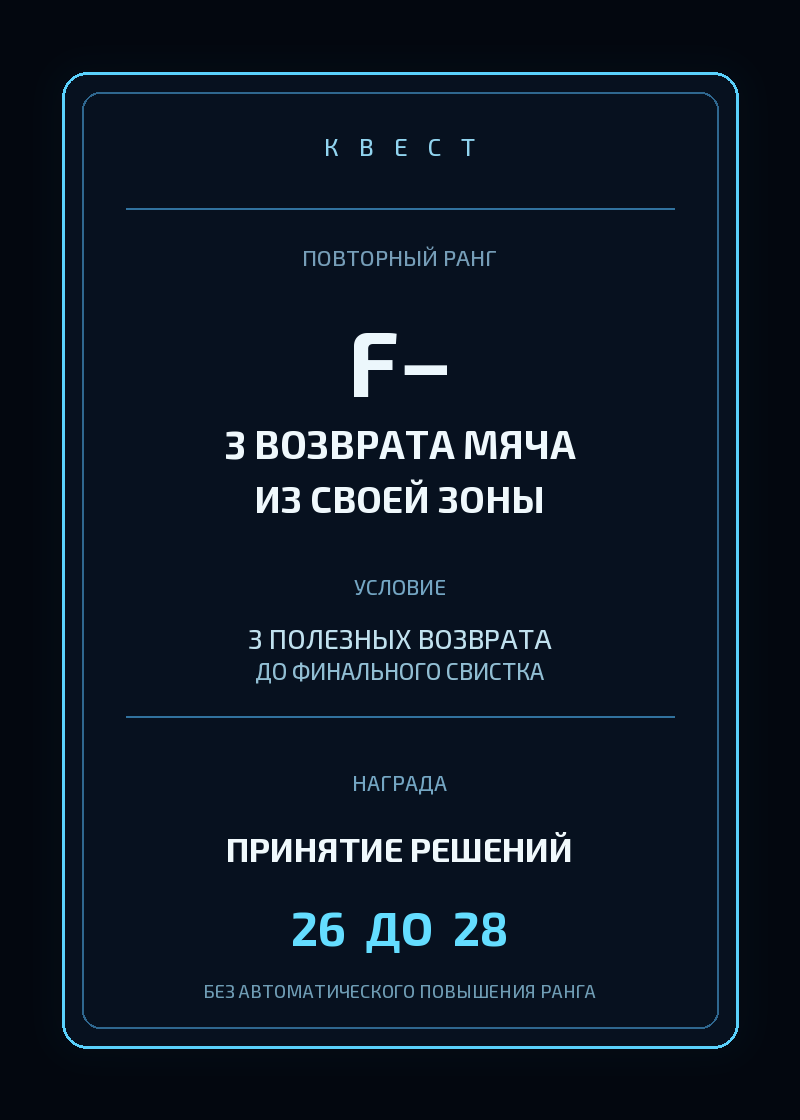
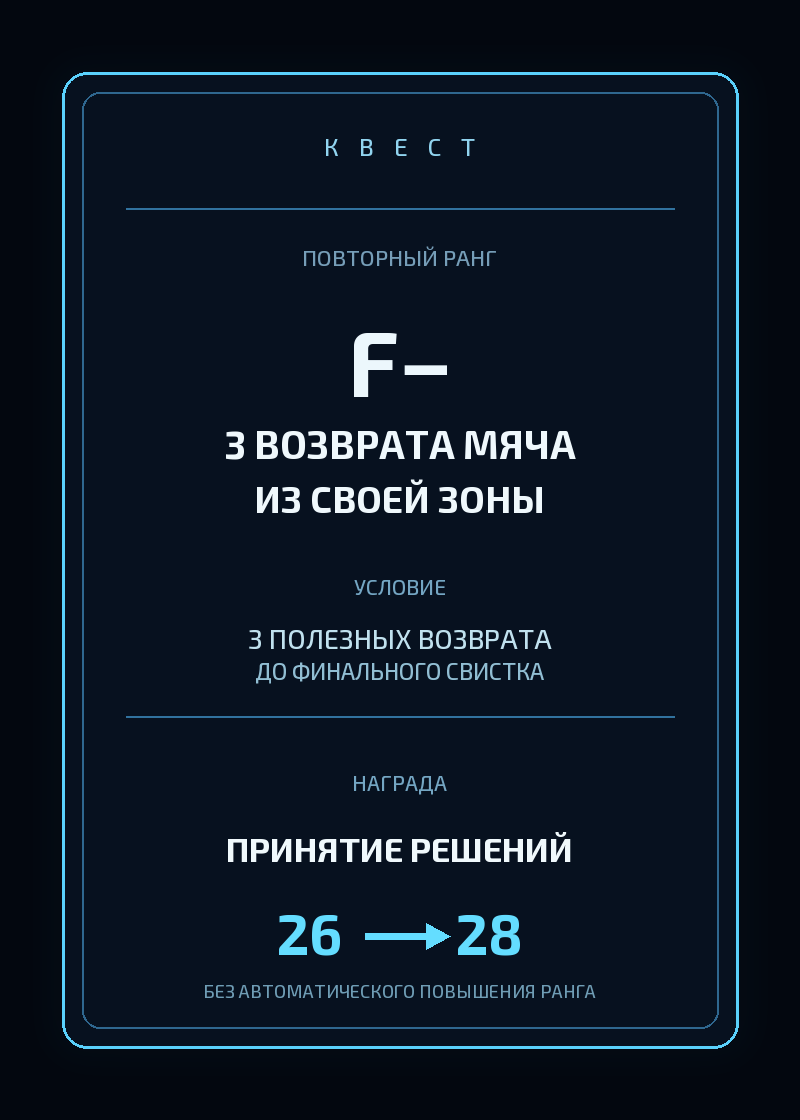
Complete chapter 4 first batch

Changed region(s): [[0.3438, 0.8125, 0.6562, 0.875]]

diff --git a/tests/test_ch4_v2.py b/tests/test_ch4_v2.py
@@ -58,10 +58,11 @@ FIRST_BATCH_SOURCE_HASHES = {
[4 lines of base64/hex data omitted]
 }
 
 QUEST_PANEL = Path("ch4/v2_11_quest.png")
[2 lines of base64/hex data omitted]
 
 
 class ChapterFourV2PlanningTests(unittest.TestCase):
@@ -107,20 +108,19 @@ class ChapterFourV2PlanningTests(unittest.TestCase):
         self.assertNotEqual(VERESK_KIT["shirt"], "#000000")
         self.assertNotEqual(VERESK_KIT["shorts"], "#000000")
 
-    def test_first_review_batch_has_nine_ready_frames_and_waits_for_substitution_art(self):
-        first_nine = CH4_V2_SCORE[:9]
-        self.assertEqual([row[1] for row in first_nine], [f"{i:02d}" for i in range(1, 10)])
-        self.assertEqual(len({row[0] for row in first_nine}), 9)
-        self.assertTrue(all("/v2_" in row[0] for row in first_nine))
+    def test_first_review_batch_contains_exactly_ten_ready_frames(self):
+        first_ten = CH4_V2_SCORE[:10]
+        self.assertEqual([row[1] for row in first_ten], [f"{i:02d}" for i in range(1, 11)])
+        self.assertEqual(len({row[0] for row in first_ten}), 10)
+        self.assertTrue(all("/v2_" in row[0] for row in first_ten))
         self.assertEqual(CH4_V2_SCORE[9][0], "ch4/v2_10_substitution_65_src.jpg")
-        self.assertFalse((ROOT / CH4_V2_SCORE[9][0]).exists())
-        self.assertFalse((ROOT / "CH4_V2_BATCH_01_10_SCROLL.jpg").exists())
-        partial = ROOT / "CH4_V2_BATCH_01_09_SCROLL.jpg"
-        self.assertTrue(partial.is_file())
-        with Image.open(partial) as image:
-            self.assertEqual(image.size, (800, 14873))
+        self.assertTrue((ROOT / CH4_V2_SCORE[9][0]).is_file())
+        full = ROOT / "CH4_V2_BATCH_01_10_SCROLL.jpg"
+        self.assertTrue(full.is_file())
+        with Image.open(full) as image:
+            self.assertEqual(image.size, (800, 16597))
             self.assertEqual(image.mode, "RGB")
-        for index in range(1, 10):
+        for index in range(1, 11):
             path = ROOT / f"ch4/v2_lettered_{index:02d}.jpg"
             self.assertTrue(path.is_file(), path)
             with Image.open(path) as image:
@@ -148,7 +148,7 @@ class ChapterFourV2PlanningTests(unittest.TestCase):
         for forbidden in ("68′", "F+", "ПОЗИЦИЯ 70 → 71"):
             self.assertNotIn(forbidden, lettering)
 
-    def test_batch_builder_rejects_more_than_ten_or_missing_tenth_frame(self):
+    def test_batch_builder_rejects_more_than_ten_frames(self):
         over = subprocess.run(
             [sys.executable, "build_ch4_v2_batch.py", "--start", "1", "--end", "11"],
             cwd=ROOT,
@@ -156,14 +156,7 @@ class ChapterFourV2PlanningTests(unittest.TestCase):
             capture_output=True,
         )
         self.assertNotEqual(over.returncode, 0)
-        missing = subprocess.run(
-            [sys.executable, "build_ch4_v2_batch.py", "--start", "1", "--end", "10"],
-            cwd=ROOT,
-            text=True,
-            capture_output=True,
-        )
-        self.assertNotEqual(missing.returncode, 0)
-        self.assertIn("v2_10_substitution_65_src.jpg", missing.stderr)
+        self.assertIn("01–10", over.stderr)
 
     def test_script_contains_exact_contract_and_production_guards(self):
         script = (ROOT / "docs/CH4_SCRIPT_CANDIDATE.md").read_text(encoding="utf-8")

diff --git a/build_ch4_v2_numbers.py b/build_ch4_v2_numbers.py
@@ -45,10 +45,10 @@ def apply_ch4_numbers(num: str, image_rgba: Image.Image) -> Image.Image:
     # Только ракурсы, где поверхность формы действительно видна. Никаких
     # ложных номеров на груди/рукавах или дальних пиксельных игроках.
     if num == "04":
-        _number(image, (int(w * 0.392), int(h * 0.415)), VETROV_NUMBER, size=max(28, int(w * 0.048)), angle=-2)
-        _number(image, (int(w * 0.732), int(h * 0.386)), SHATSKY_NUMBER, size=max(24, int(w * 0.041)), angle=4)
+        _number(image, (int(w * 0.310), int(h * 0.530)), VETROV_NUMBER, size=max(28, int(w * 0.048)), angle=-8)
+        _number(image, (int(w * 0.795), int(h * 0.405)), SHATSKY_NUMBER, size=max(24, int(w * 0.041)), angle=4)
     elif num == "10":
-        _number(image, (int(w * 0.385), int(h * 0.425)), VETROV_NUMBER, size=max(36, int(w * 0.075)), angle=-3)
-        _number(image, (int(w * 0.365), int(h * 0.685)), VETROV_NUMBER, size=max(20, int(w * 0.036)), angle=-5)
+        _number(image, (int(w * 0.490), int(h * 0.525)), VETROV_NUMBER, size=max(36, int(w * 0.075)), angle=-1)
+        _number(image, (int(w * 0.455), int(h * 0.660)), VETROV_NUMBER, size=max(20, int(w * 0.036)), angle=-3)
 
     return image

diff --git a/build_ch4_v2_system.py b/build_ch4_v2_system.py
@@ -52,7 +52,10 @@ def build() -> Path:
 
     _text(draw, (400, 770), "НАГРАДА", "m", 21, (116, 166, 195), "ma")
     _text(draw, (400, 828), "ПРИНЯТИЕ РЕШЕНИЙ", "b", 34, (240, 249, 252), "ma")
-    _text(draw, (400, 899), f"{DECISION_BEFORE}  ДО  {DECISION_AFTER}", "b", 47, (100, 221, 255), "ma")
+    _text(draw, (310, 899), str(DECISION_BEFORE), "b", 56, (100, 221, 255), "ma")
+    _text(draw, (490, 899), str(DECISION_AFTER), "b", 56, (100, 221, 255), "ma")
+    draw.line((365, 936, 426, 936), fill=(100, 221, 255), width=7)
+    draw.polygon(((426, 923), (450, 936), (426, 949)), fill=(100, 221, 255))
     _text(draw, (400, 980), "БЕЗ АВТОМАТИЧЕСКОГО ПОВЫШЕНИЯ РАНГА", "m", 18, (111, 157, 181), "ma")
 
     OUT.parent.mkdir(parents=True, exist_ok=True)

diff --git a/docs/QC_CH1-5_2026-11-13.md b/docs/QC_CH1-5_2026-11-13.md
@@ -363,14 +363,19 @@
 - **глава 4 · кадры 01–09 · было → стало · почему:** было — существовали только два continuity-мастера и текстовая партитура → стало — созданы автобус у единого городского стадиона, чистая заявка `11 + 7`, предматчевая раздевалка, скамейка, показанный гол «Вереска» на `38′`, коридор перерыва, вызов Ветрова на `62′` и установка тренера; все новые файлы имеют `v2_*`, а игровые сцены сохраняют вересково-фиолетовую форму, чёрно-красный комплект «Торпедо-2», пасмурный свет и ту же бетонно-кирпичную арену → почему: начать производственный пакет только после закрепления continuity и не ремонтировать legacy.
 - **глава 4 · кадр 02 · было → стало · почему:** было — legacy-заявка заранее печатала будущую замену `ВЕТРОВ 68′` → стало — программная заявка показывает только стартовый состав и запас: ровно 18 уникальных фамилий/номеров, Шатский `16` в основе, Ветров `19` в запасе, №8 свободен → почему: предматчевый документ не должен знать будущую минуту замены.
 - **глава 4 · кадры 06, 08–09 · было → стало · почему:** было — гол, вызов и установка существовали лишь как описание → стало — exact-lettering фиксирует `38′ / ГОООЛ!`, `62′ / ВЕТРОВ! РАЗМИНАЙСЯ!` и естественное `Подбери за Шатским. И первый пас — проще. / Понял.` без пересказа изображения → почему: причинно связать поражение, решение тренера и функцию выхода героя.
-- **глава 4 · кадр 11 · было → стало · почему:** было — legacy показывал невозможный `F+ / ПОЗИЦИЯ 70 → 71` → стало — изолированный сборщик создал панель повторного `F−`, условия `3 ВОЗВРАТА МЯЧА ИЗ СВОЕЙ ЗОНЫ` и награды `ПРИНЯТИЕ РЕШЕНИЙ 26 ДО 28`, без XP, уровня и прогресс-бара → почему: вернуться к незакрытой линии Главы 1 и не перескакивать ранг.
-- **глава 4 · граница пакета · было → стало · почему:** было — первый пакет ещё не существовал → стало — временная `CH4_V2_BATCH_01_09_SCROLL.jpg` (`800×14873`) и девять lettered-файлов собраны для внутреннего QC; создание substitution-art `10` остановлено системным лимитом генерации, поэтому `CH4_V2_BATCH_01_10_SCROLL.jpg` намеренно отсутствует и защищён тестом → почему: честно не объявлять девять кадров полным пакетом и продолжить с точной точки в следующем ходе.
+- **глава 4 · кадр 11 · было → стало · почему:** было — legacy показывал невозможный `F+ / ПОЗИЦИЯ 70 → 71` → стало — изолированный сборщик создал панель повторного `F−`, условия `3 ВОЗВРАТА МЯЧА ИЗ СВОЕЙ ЗОНЫ` и награды `ПРИНЯТИЕ РЕШЕНИЙ 26 → 28`, без XP, уровня и прогресс-бара → почему: вернуться к незакрытой линии Главы 1 и не перескакивать ранг.
+- **глава 4 · граница пакета · было → стало · почему:** было — первый пакет ещё не существовал → стало — временная `CH4_V2_BATCH_01_09_SCROLL.jpg` (`800×14873`) и девять lettered-файлов собраны для внутреннего QC; создание substitution-art `10` остановлено системным лимитом генерации, поэтому `CH4_V2_BATCH_01_10_SCROLL.jpg` намеренно отсутствовал и защищался тестом → почему: честно не объявлять девять кадров полным пакетом и продолжить с точной точки в следующем ходе.
+
+### 59. Глава 4 · кадр замены `10`, полный пакет `01–10` и визуальный QC
+- **глава 4 · кадр 10 · было → стало · почему:** было — момент выхода на поле существовал только в сценарии, а частичная лента заканчивалась установкой тренера → стало — `v2_10_substitution_65_src.jpg` показывает Ветрова, пересекающего бровку навстречу уходящему партнёру; пустое табло четвёртого судьи не выдумывает данные, код наносит `65′` и №19 точно на спину и видимую часть шорт → почему: доказать замену изображением, сохранить официальный номер и замкнуть арифметику `90 − 65 = 25 минут`.
+- **глава 4 · номера в кадрах 04 и 10 · было → стало · почему:** было — первая автоматическая раскладка ставила №19 у волос Ветрова, а №16 на краю рукава Шатского → стало — координаты выровнены по фактическим плоскостям спины; в кадре выхода №19 расположен на центре спины и шортах → почему: номер должен принадлежать форме, а не свободному фону или телу.
+- **глава 4 · пакет 01–10 · было → стало · почему:** было — существовала только внутренняя лента `01–09` → стало — собраны десять полноразмерных `v2_lettered_01.jpg`–`v2_lettered_10.jpg` и `CH4_V2_BATCH_01_10_SCROLL.jpg` (`800×16597`): `9` внутрикадровых + `7` межкадровых блоков → почему: завершить первую половину строго в пределах установленного максимума десять кадров.
+- **глава 4 · визуальный и автоматический QC · было → стало · почему:** было — кадр замены и полный ритм ещё нельзя было проверить → стало — просмотрены монтажный лист и пять полноразмерных полос; подтверждены единые форма/стадион/погода, заявка `11 + 7`, номера `16/19`, `38′ / 62′ / 65′`, один мяч в сетке и финальная фраза `Двадцать пять минут.`; тесты требуют все десять SHA-256 исходников и точный размер пакетной ленты → почему: второй пакет нельзя начинать на неподтверждённой первой половине.
 
 ---
 
 # ОСТАЛОСЬ (не закрыто)
 
-1. **Завершить первый пакет Главы 4:** в следующем генерационном окне создать `ch4/v2_10_substitution_65_src.jpg` с выходом Ветрова №19 на `65′`; затем пересобрать ровно `01–10`. Legacy не перезаписывать.
-2. **Проверка пакета `01–10`:** уже подтверждены заявка `11 + 7`, Шатский `16`, Ветров `19`, показанный гол `38′`, единый стадион/погода, вызов `62′` и установка; после добавления `10` проверить точную арифметику `65′ / 25 минут`, номера и полный ритм.
-3. **Второй пакет `11–20`:** не начинать до QC первой половины; затем отдельно доказать три возврата, счёт `1:0`, результат `26 → 28`, человеческую оценку и официальный протокол `2 / 6.6`.
-4. **Псевдописьмо Главы 5:** в кадре 02 (`e09_lines`) мелкое псевдописьмо остаётся до очереди Главы 5.
+1. **Точка просмотра пакета `01–10`:** первая половина полностью готова и показана отдельно; её статус остаётся кандидатом до буквального `утверждаю`.
+2. **Второй пакет `11–20`:** после продолжения отдельно доказать три возврата, счёт `1:0`, результат `26 → 28`, человеческую оценку и официальный протокол `2 / 6.6`.
+3. **Псевдописьмо Главы 5:** в кадре 02 (`e09_lines`) мелкое псевдописьмо остаётся до очереди Главы 5.

diff --git a/docs/WORKFLOW_LOG.md b/docs/WORKFLOW_LOG.md
@@ -19,16 +19,16 @@ _Проект: «ПОКА ПОВРЕМЕНИМ», том 1 (главы 1–5) ·
 ## Текущий счётчик
 
 - **Последняя контрольная точка:** `CHECKPOINT #12` — `2026-11-16` (утверждение и canonical build Главы 3; аудит Главы 4; принятие v2-направления; continuity-мастера формы «Вереска» и городского стадиона).
-- **Шагов с последнего чекпоинта:** **`1 / 5`**
+- **Шагов с последнего чекпоинта:** **`2 / 5`**
 - **Следующая обязательная фиксация документации в Git:** на шаге **`5 / 5`** (`CHECKPOINT #13`) либо сразу после следующего авторского `утверждаю`.
 - **Закрытая глава:** **Глава 3 «ИЗ УВАЖЕНИЯ К ТАЙМИНГУ» утверждена** и собрана канонически как `800×30964`.
-- **Активная глава:** **Глава 4 «ПРОТОКОЛ 1:0»**. Готовы versioned-ресурсы и леттеринг `01–09`, а также подготовленная панель квеста `11`; частичная QC-лента `CH4_V2_BATCH_01_09_SCROLL.jpg` (`800×14873`) собрана только для внутренней сверки. Генерационный лимит остановил создание `10` в текущем ходе, поэтому полный пакет `01–10` ещё не объявлен готовым; legacy не менялся.
+- **Активная глава:** **Глава 4 «ПРОТОКОЛ 1:0»**. Первый versioned-пакет `01–10` завершён: выход Ветрова №19 на `65′` добавлен, `CH4_V2_BATCH_01_10_SCROLL.jpg` (`800×16597`) собран и визуально проверен по монтажному листу и пяти полосам. Панель квеста `11` готова отдельно; второй пакет ещё не начат, legacy не менялся.
 
 ### Текущая пятёрка шагов (к `CHECKPOINT #13`)
 
-- [x] Шаг 1/5 — собраны и визуально проверены versioned-ресурсы `01–09`, заявка `11 + 7`, леттеринг, панель квеста `11` и временная QC-лента; `10` ожидает следующего генерационного окна.
-- [ ] Шаг 2/5 — создать substitution-art `10`, собрать и проверить полный пакет `01–10`.
-- [ ] Шаг 3/5 — _свободно_.
+- [x] Шаг 1/5 — собраны и визуально проверены versioned-ресурсы `01–09`, заявка `11 + 7`, леттеринг, панель квеста `11` и временная QC-лента.
+- [x] Шаг 2/5 — создан substitution-art `10`, номера №19 программно выровнены по спине/шортам, полный пакет `01–10` собран и проверен.
+- [ ] Шаг 3/5 — начать versioned-ресурсы второй половины только после точки просмотра первого пакета.
 - [ ] Шаг 4/5 — _свободно_.
 - [ ] Шаг 5/5 — _CHECKPOINT #13_.
 
@@ -79,7 +79,7 @@ _Проект: «ПОКА ПОВРЕМЕНИМ», том 1 (главы 1–5) ·
 - `build_ch3_v2_batch.py` сохраняет максимум `10` фреймов за выпуск. Готовы `CH3_V2_BATCH_01_10_SCROLL.jpg` (`800×15591`) и `CH3_V2_BATCH_11_20_SCROLL.jpg` (`800×15953`) с двадцатью отдельными `v2_lettered_*`-файлами.
 - По прямому запросу автора сначала собраны маркированные review-файлы; после утверждения отдельный `--approved` создал `CH3_V2_SCROLL_SL_full.jpg` (`800×30964`) и `CH3_V2_SL_SHEET.jpg` (`1908×2953`). Обе сборки имеют 20 кадров, `15 + 10` текстовых блоков и `0` пересечений.
 - Для следующих соперников до генерации обязательны уникальные паспорта формы и стадиона, эталон формы и establishing shot; чёрный комплект и прежняя архитектура арены не повторяются автоматически.
-- `tests/test_ch3_v2.py` защищает механику, 20 кадров, два пакета по 10, размеры review- и approved-выходов, заявку, номера, точный текст, воспроизводимые врезки и SHA-256 legacy Главы 3; после добавления плановых тестов Главы 4 полный regression содержит 35 тестов.
+- `tests/test_ch3_v2.py` защищает механику, 20 кадров, два пакета по 10, размеры review- и approved-выходов, заявку, номера, точный текст, воспроизводимые врезки и SHA-256 legacy Главы 3; после производственных тестов Главы 4 полный regression содержит 39 тестов.
 
 ---
 
@@ -91,7 +91,7 @@ _Проект: «ПОКА ПОВРЕМЕНИМ», том 1 (главы 1–5) ·
 - Сценарий расширен до 20 кадров, чтобы отдельно показать единственный гол, три действия, человеческую оценку, окно Системы и официальный протокол без словесных дублей.
 - «Вереск» получил вересково-фиолетовую/кремовую форму; стадион — городской бетонно-кирпичный овал с беговой дорожкой и холодным пасмурным светом. Мастера `ch4/v2_veresk_kit_reference.jpg` и `ch4/v2_03_veresk_stadium_establishing_src.jpg` проверены визуально и хешами.
 - `ch4_roster.py` сохраняет 18 уникальных номеров: Шатский `16` возвращается в основу, Ветров `19` начинает в запасе, №8 свободен.
-- `ch4_v2_contract.py` и девять тестов фиксируют механику, счёт, время, заявку, masters, первые девять исходников, точный леттеринг и запрет преждевременной полной ленты. Следующая операция — создать `v2_10_substitution_65_src.jpg`, затем пересобрать `01–10`; legacy не перезаписывать.
+- `ch4_v2_contract.py` и девять тестов фиксируют механику, счёт, время, заявку, masters, все десять исходников, точный леттеринг и размеры пакетной ленты. Первый пакет готов; следующий производственный шаг — `11–20` только после точки просмотра `01–10`. Legacy не перезаписывать.
 
 ---
 

diff --git a/README.md b/README.md
@@ -15,7 +15,7 @@
 | **1** | **ПЕРВАЯ НЕДЕЛЯ** | **УТВЕРЖДЕНА автором 2026-11-16 · канон `v13` + `curve-v1`** | 28 | `800×49757` | `15.1` | `p07_quest` (`26→28`), `p23_fail` (без штрафа), `p37_day` (профиль + ИВ 68), `p38_shop` (10 товаров без сообщения о нехватке) |
 | **2** | **ДОБРО ПОЖАЛОВАТЬ, ИГРОК** | **`script-v2` опубликован; отдельный читательский v3-кандидат исправляет дверь, два вызова и внутреннюю логику. Предварительная v3-лента сохранена, но после уточнения финальной мысли повторная сборка ждёт утверждения текста** | 15 v3-кандидат / 14 v2 / 13 legacy | `800×23837` v3-preview / `800×21856` v2 | `13.7` в ленте v2 / `19.4` clean QC | v3: одинаковые профили `07/12` (`42`), отдельный повторный вызов `11`, приветствие `14` |
 | **3** | **ИЗ УВАЖЕНИЯ К ТАЙМИНГУ** | **УТВЕРЖДЕНА автором 2026-11-16 · канон `v2`: первый старт объяснён кубковым контекстом, гол Мельника показан на 74′ в полноразмерные ворота, итог 0:1** | 20 / 12 legacy | canonical `800×30964` / review `800×31004` / legacy `800×19850` | `12.5` clean art | `F−`, `3 чистых отбора`, `ОТБОР 26→28` |
-| **4** | **ПРОТОКОЛ 1:0** | **Активный v2-кандидат: готовы masters, заявка, `01–09`, exact-lettering и панель `11`; временная QC-лента `800×14873`. Кадр замены `10` остановлен лимитом генерации, поэтому пакет `01–10` ещё не завершён. Legacy не изменён** | 9 готово / 20 кандидат / 11 legacy | `01–09`: `800×14873` / `800×18240` legacy | masters cold overcast / `26.6` legacy | v2: `F−`, `3 возврата`, `РЕШЕНИЯ 26→28`; legacy `F+` запрещён |
+| **4** | **ПРОТОКОЛ 1:0** | **Активный v2-кандидат: первый пакет `01–10` полностью собран и визуально проверен; masters, заявка и панель `11` готовы. Legacy не изменён** | 10 готово / 20 кандидат / 11 legacy | `01–10`: `800×16597` / `800×18240` legacy | cold overcast continuity / `26.6` legacy | v2: `F−`, `3 возврата`, `РЕШЕНИЯ 26→28`; legacy `F+` запрещён |
 | **5** | **У ТЕБЯ В ГОЛОВЕ СЛИШКОМ ТИХО** | Ожидает гл. 4 (панели обновлены) | 11 | `800×18240` | `11.0` | `p15_choice` (`F−/F/F+`), `p25_done` (`38→39`) |
 
 ---
@@ -38,7 +38,7 @@
 | `CH2_V2_SL_SHEET.jpg` | Монтажный лист полной новой ленты Главы 2 с панелями, точной кириллицей и леттерингом. |
 | `CH2_V2_SCROLL_SL_full.jpg` | Полная мобильная лента Главы 2 `script-v2`, `800×21856`; legacy-лента сохранена отдельно. |
 | `docs/SYSTEM_PROGRESSION.md` | Утверждённая `curve-v1`: скрытая ступенчатая стоимость роста характеристик, правила отображения без XP/прогресс-баров и контрольные примеры. |
-| `docs/QC_CH1-5_2026-11-13.md` | Полный журнал всех правок в строгом формате `глава N · кадр NN · было → стало · почему` (п. 1–58). |
+| `docs/QC_CH1-5_2026-11-13.md` | Полный журнал всех правок в строгом формате `глава N · кадр NN · было → стало · почему` (п. 1–59). |
 | `HANDOFF.md` | Архивный исходный handoff от 2026-11-13; его механика Главы 1 заменена v13. Актуальные значения берутся из `build_ch1_system.py`, `docs/CHAPTERS.md` и журнала QC. |
 
 ---

diff --git a/docs/CHAPTERS.md b/docs/CHAPTERS.md
@@ -1,6 +1,6 @@
 # РАСКАДРОВКА, ПЕРСОНАЖИ И ТЕХНИЧЕСКАЯ СПЕЦИФИКАЦИЯ
 
-_Актуальное состояние после `CHECKPOINT #12` (2026-11-16), счётчик новой пятёрки `1/5`. Главы 1 и 3, `curve-v1` и опубликованная основа Главы 2 утверждены. Активна Глава 4: готовы continuity-мастера, заявка, exact-lettering и versioned-ресурсы `01–09`; подготовлена панель квеста `11`. Частичная QC-лента `01–09` не является полным пакетом: кадр замены `10` остановлен лимитом генерации и будет создан следующим. Legacy не перезаписывался._
+_Актуальное состояние после `CHECKPOINT #12` (2026-11-16), счётчик новой пятёрки `2/5`. Главы 1 и 3, `curve-v1` и опубликованная основа Главы 2 утверждены. Активна Глава 4: continuity-мастера, заявка, exact-lettering и весь versioned-пакет `01–10` готовы; `CH4_V2_BATCH_01_10_SCROLL.jpg` (`800×16597`) проверен по монтажному листу и пяти полосам. Панель квеста `11` подготовлена отдельно, но второй пакет ещё не начат. Legacy не перезаписывался._
 
 ---
 
@@ -119,4 +119,4 @@ _Актуальное состояние после `CHECKPOINT #12` (2026-11-16
   - `Oswald` (`Medium` / `Bold`) — выкрики с поля в зубчатых баблах (`~39–41 px`), сухие штампы времени/места (`~30–32 px`), звуковые эффекты SFX (`~46–62 px`) и карточки соперников.
 - **Счёт матча:** физические табло Главы 1 (`09`, `10`) остаются частью окружения и получают точные цифры через `stadium_scoreboard()`. В Главе 3 результат не заменяет действие: кадр `12` сначала показывает сам гол, а кадр `13` отдельным сухим штампом закрепляет `«ГОРЕЦ» 0:1 «ТОРПЕДО-2»`; это не окно Системы.
 - **Пакетный и полный review-режим:** `build_ch3_v2_batch.py` принимает последовательный диапазон не более `10` фреймов. По прямому запросу автора `build_ch3_v2_scroll.py --review` соединяет уже проверенные пакеты в полную ленту и монтажный лист с маркировкой `НЕ УТВЕРЖДЕНО`; только `--approved` имеет право писать канонические финальные пути.
-- **Автопроверки при сборке:** 39 тестов защищают `curve-v1`, опубликованную Главу 2 и её v3-кандидат, утверждённую Главу 3 и текущий кандидат Главы 4. Девять тестов Главы 4 фиксируют `F− / 3 возврата / РЕШЕНИЯ 26→28`, счёт `1:0`, `65′ / 25 минут`, заявку `11 + 7`, №19/16, точные `38′ / 62′ / 65′`, SHA-256 masters и `01–09`, а также отсутствие полной `01–10` до готовности кадра замены.
+- **Автопроверки при сборке:** 39 тестов защищают `curve-v1`, опубликованную Главу 2 и её v3-кандидат, утверждённую Главу 3 и текущий кандидат Главы 4. Девять тестов Главы 4 фиксируют `F− / 3 возврата / РЕШЕНИЯ 26→28`, счёт `1:0`, `65′ / 25 минут`, заявку `11 + 7`, №19/16, точные `38′ / 62′ / 65′`, SHA-256 masters и всех исходников `01–10`, а также точный размер полной пакетной ленты.

diff --git a/docs/CH4_PRODUCTION_PLAN.md b/docs/CH4_PRODUCTION_PLAN.md
@@ -1,6 +1,6 @@
 # Глава 4 · production plan v2
 
-> Статус: рекомендованное направление принято ответом автора `дальше`. Continuity-мастера, заявка и versioned-ресурсы `01–09` созданы и проверены; панель квеста `11` подготовлена отдельно. Кадр замены `10` остановлен лимитом генерации текущего хода, поэтому `CH4_V2_BATCH_01_09_SCROLL.jpg` — только внутренняя QC-лента, не завершённый пакет. Остальные новые ресурсы только `ch4/v2_*`; legacy не перезаписывается.
+> Статус: рекомендованное направление принято ответом автора `дальше`. Continuity-мастера, заявка и весь versioned-пакет `01–10` созданы; `CH4_V2_BATCH_01_10_SCROLL.jpg` (`800×16597`) визуально проверен по монтажному листу и пяти полосам. Панель квеста `11` подготовлена отдельно, но производство второго пакета ещё не начато. Все новые ресурсы только `ch4/v2_*`; legacy не перезаписывается.
 
 ## 1 · Входной канон
 
